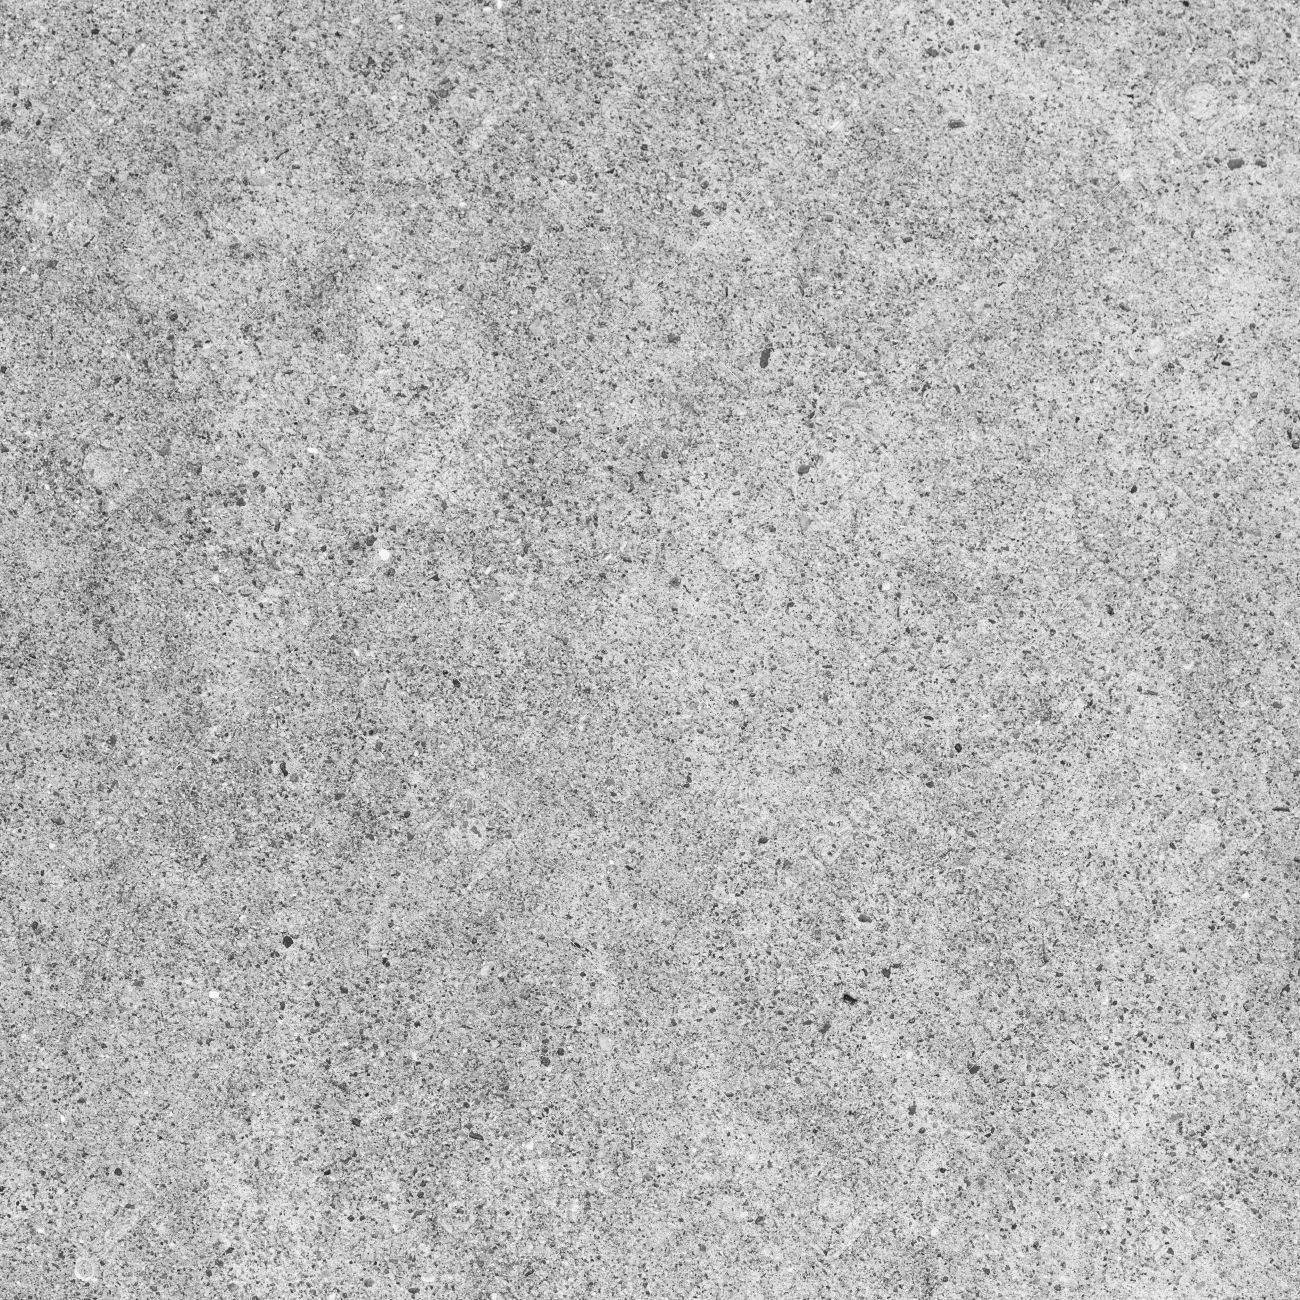
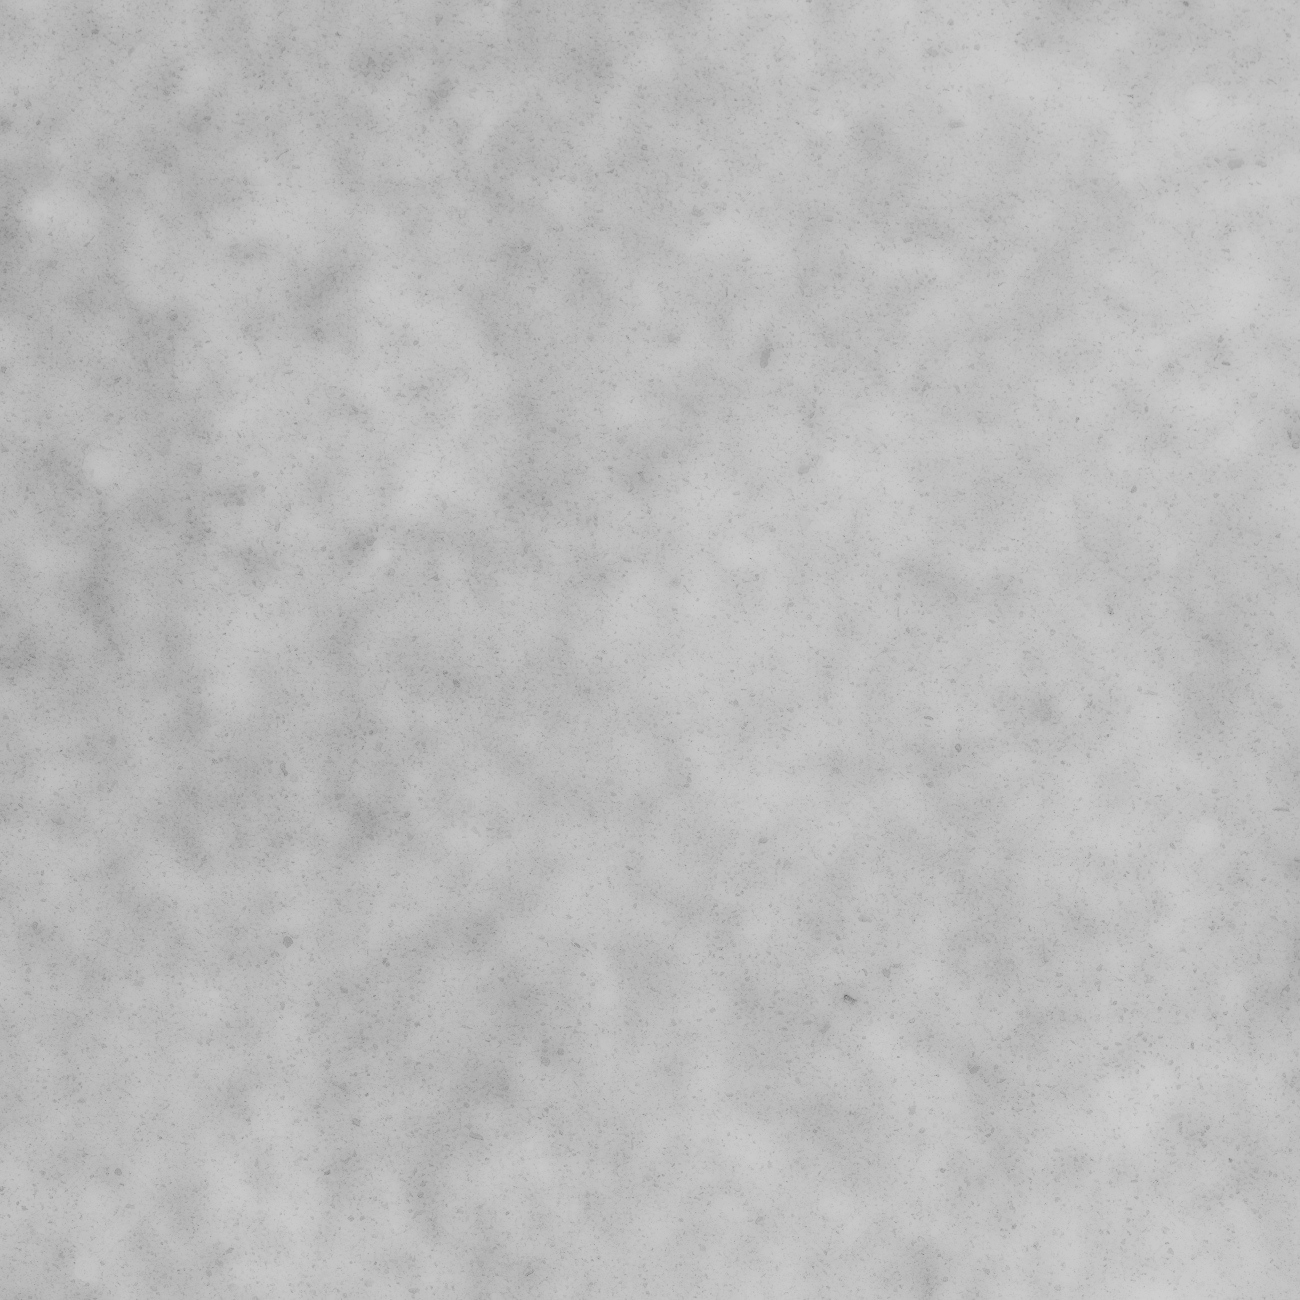
update ground texture

diff --git a/client/util.js b/client/util.js
@@ -250,7 +250,10 @@ const Util = {
 
 if (typeof THREE == "object") {
     Util.cubeMaterials = [
-        new THREE.MeshPhongMaterial({ color: 0xcccccc, shininess: 0 }),
+        new THREE.MeshPhongMaterial({ 
+            map: (new THREE.TextureLoader()).load('img/ston3.jpg'),
+            shininess: 0
+        }),
         new THREE.MeshPhongMaterial({
             map: (new THREE.TextureLoader()).load('img/wood.jpg'),
             shininess: 50
